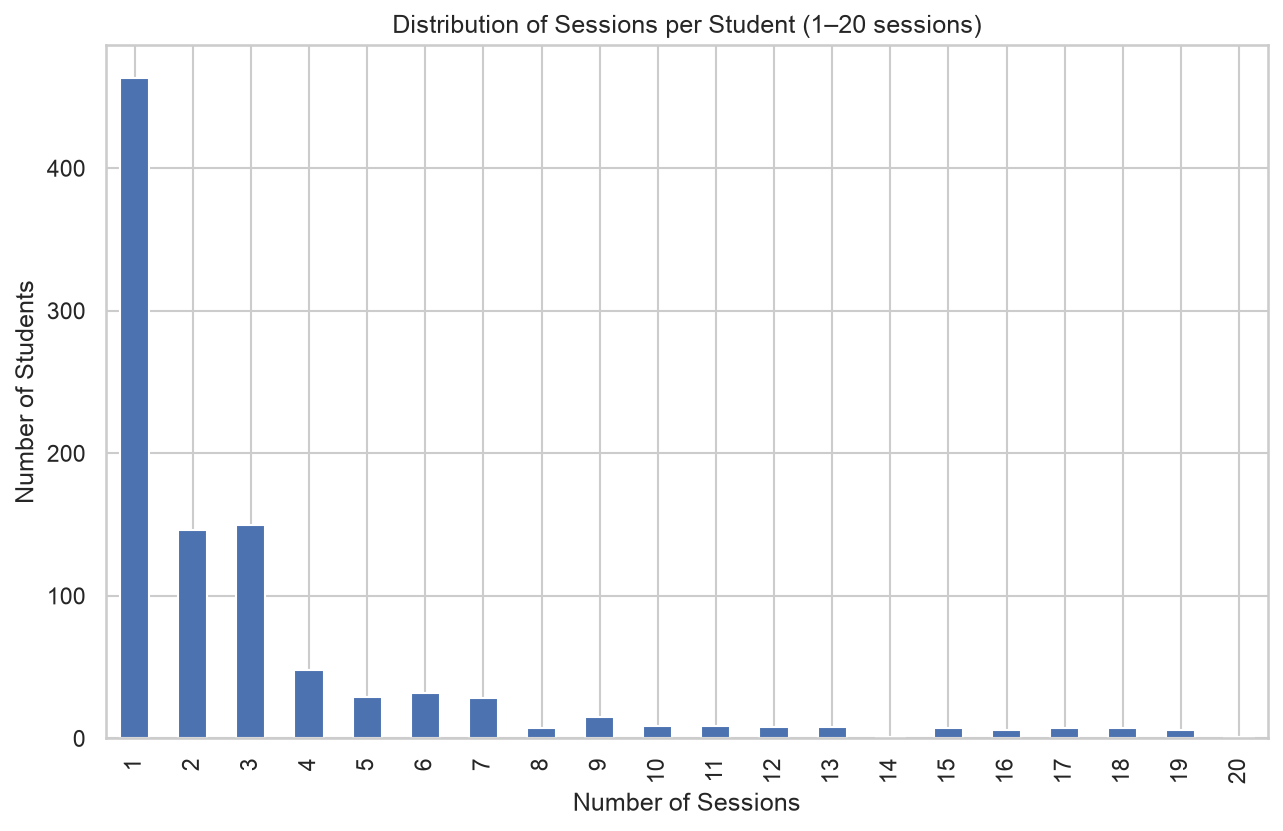
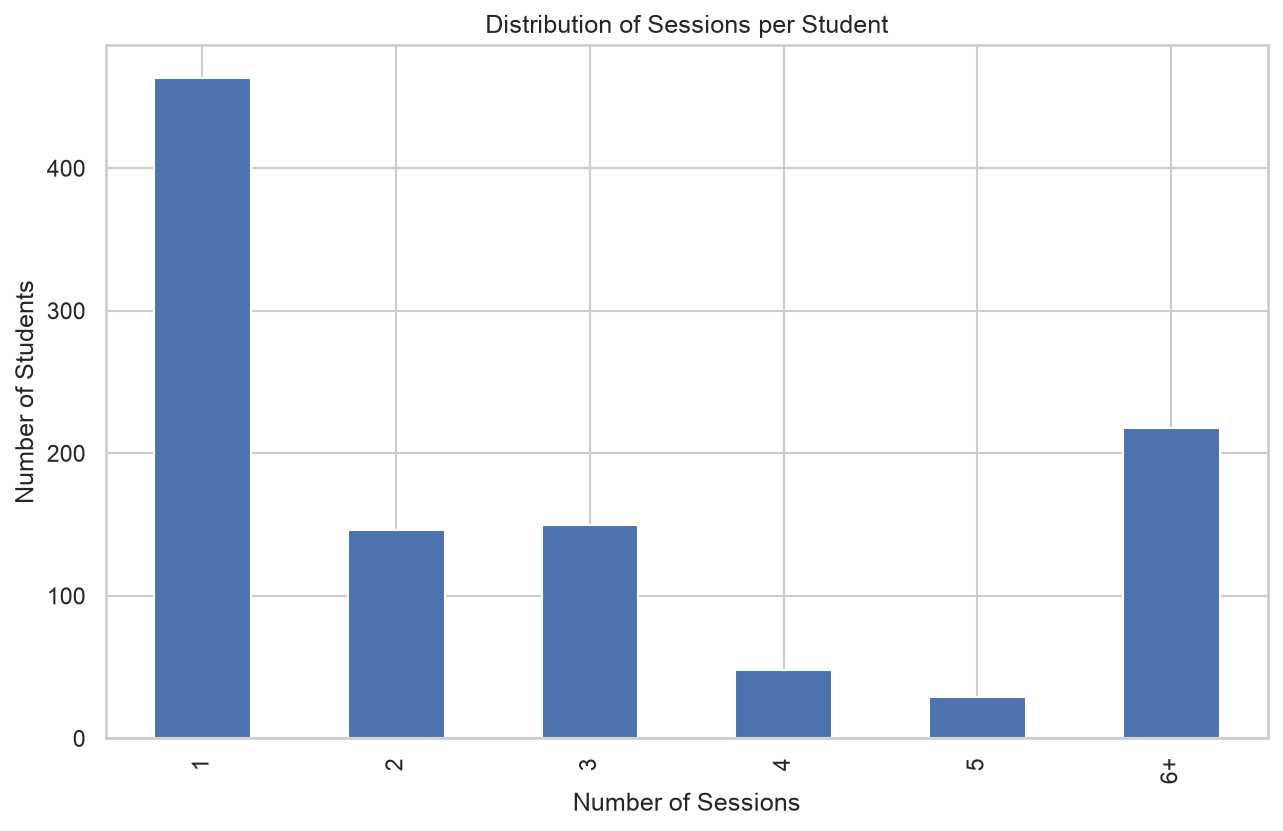
Bin 6+ sessions in sessions-per-student chart

diff --git a/index.html b/index.html
@@ -171,7 +171,7 @@
 <body>
     <header>
         <h1>LC Attendance Analytics Report</h1>
-        <div class="subtitle">Generated on 2026-08-21 12:29</div>
+        <div class="subtitle">Generated on 2026-08-21 12:38</div>
         <div class="subtitle">Data source: Local attendance records (anonymized)</div>
         <a class="download-btn" href="LC_Attendance_Report.pdf" download>⬇ Download PDF Report</a>
     </header>
